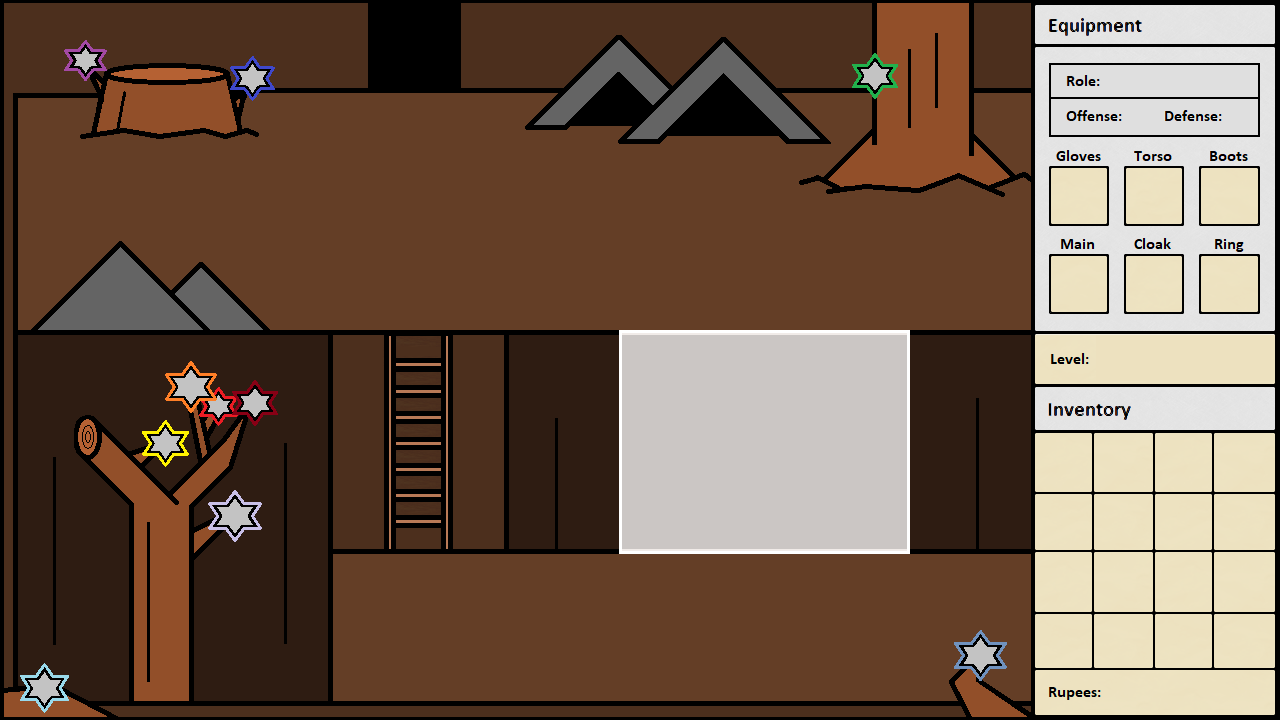
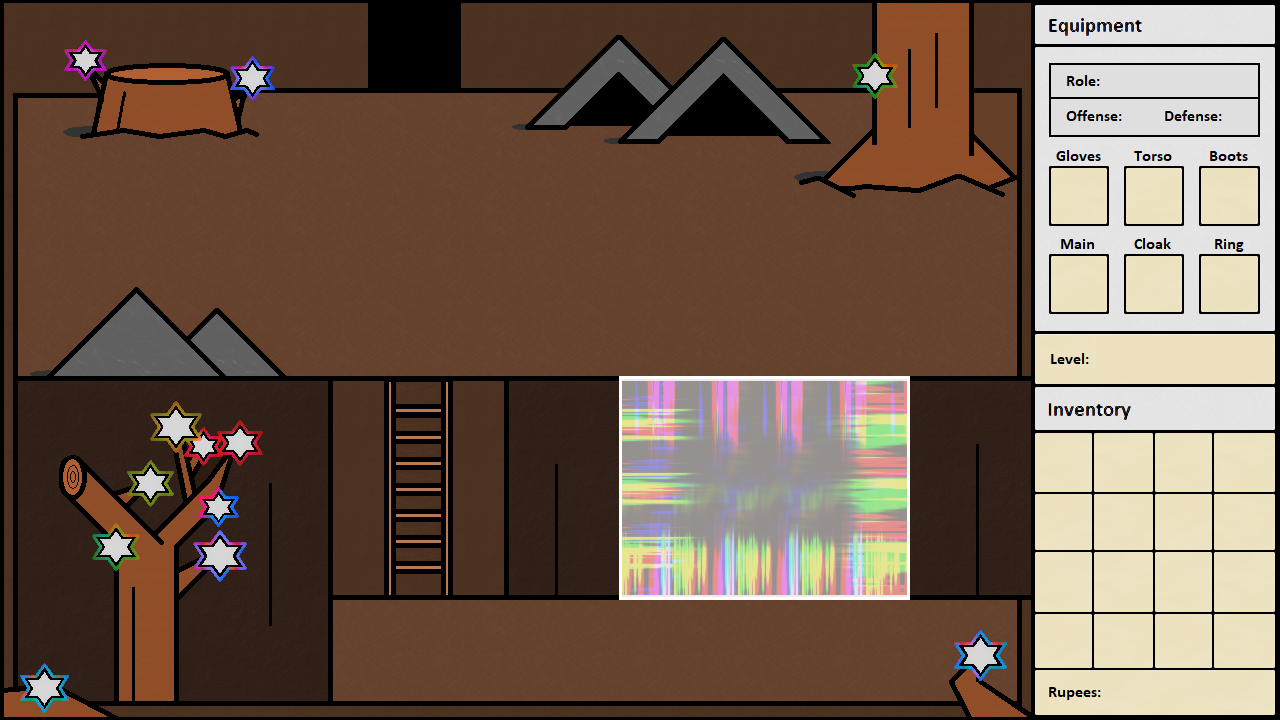
Updating updates.

diff --git a/project_eterna.py b/project_eterna.py
@@ -535,6 +535,38 @@ class PlayerAmuna(pygame.sprite.Sprite):
                 self.y_coordinate = 330
             elif self.y_coordinate >= 545:
                 self.y_coordinate = 545
+        if current_zone == "ectrenos alcove":
+            if self.x_coordinate > SCREEN_WIDTH - 275:
+                self.x_coordinate = SCREEN_WIDTH - 275
+            if self.x_coordinate < 40:
+                self.x_coordinate = 40
+            if self.y_coordinate <= 110:
+                self.y_coordinate = 110
+            elif self.y_coordinate >= SCREEN_HEIGHT - 15:
+                self.y_coordinate = SCREEN_HEIGHT - 15
+            if self.y_coordinate > 525 and self.x_coordinate < 620 or \
+                    self.y_coordinate > 525 and self.x_coordinate > 920:
+                if self.y_coordinate < 615:
+                    self.y_coordinate = 615
+                if self.x_coordinate < 350:
+                    self.x_coordinate = 350
+            if 385 < self.y_coordinate < 615:
+                if self.x_coordinate < 640:
+                    self.x_coordinate = 640
+                if self.x_coordinate > 900:
+                    self.x_coordinate = 900
+            if self.y_coordinate < 525 and self.x_coordinate < 620 or \
+                    self.y_coordinate < 525 and self.x_coordinate > 920:
+                if self.y_coordinate > 380:
+                    self.y_coordinate = 380
+            if self.x_coordinate > 490 and self.y_coordinate < 160:
+                self.y_coordinate = 160
+            if self.x_coordinate > 790 and self.y_coordinate < 205:
+                self.y_coordinate = 205
+            if self.x_coordinate < 280 and self.y_coordinate < 160:
+                self.y_coordinate = 160
+            if self.x_coordinate < 280 and self.y_coordinate > 290:
+                self.y_coordinate = 290
 
         if current_zone == "nascent":
             collided = pygame.sprite.spritecollideany(player, other_rocks, pygame.sprite.collide_rect_ratio(0.50))
@@ -699,13 +731,13 @@ class PlayerAmuna(pygame.sprite.Sprite):
                     self.y_coordinate -= velocity
                 if player.y_coordinate > collided.y_coordinate:
                     self.y_coordinate += velocity
-        if current_zone == "ectrenos left":
+        if current_zone == "ectrenos alcove":
             if player.equipment["boots"] != "chroma boots":
                 if pygame.sprite.collide_rect(player, chroma_bridge):
-                    if player.x_coordinate < chroma_bridge.x_coordinate:
-                        self.x_coordinate -= velocity
-                    if player.x_coordinate > chroma_bridge.x_coordinate:
-                        self.x_coordinate += velocity
+                    if player.y_coordinate < chroma_bridge.y_coordinate:
+                        self.y_coordinate -= velocity
+                    if player.y_coordinate < 616:
+                        self.y_coordinate += velocity
 
         self.rect.midbottom = (self.x_coordinate, self.y_coordinate)
 
@@ -1193,6 +1225,38 @@ class PlayerNuldar(pygame.sprite.Sprite):
                 self.y_coordinate = 330
             elif self.y_coordinate >= 545:
                 self.y_coordinate = 545
+        if current_zone == "ectrenos alcove":
+            if self.x_coordinate > SCREEN_WIDTH - 275:
+                self.x_coordinate = SCREEN_WIDTH - 275
+            if self.x_coordinate < 40:
+                self.x_coordinate = 40
+            if self.y_coordinate <= 110:
+                self.y_coordinate = 110
+            elif self.y_coordinate >= SCREEN_HEIGHT - 15:
+                self.y_coordinate = SCREEN_HEIGHT - 15
+            if self.y_coordinate > 525 and self.x_coordinate < 620 or \
+                    self.y_coordinate > 525 and self.x_coordinate > 920:
+                if self.y_coordinate < 615:
+                    self.y_coordinate = 615
+                if self.x_coordinate < 350:
+                    self.x_coordinate = 350
+            if 385 < self.y_coordinate < 615:
+                if self.x_coordinate < 640:
+                    self.x_coordinate = 640
+                if self.x_coordinate > 900:
+                    self.x_coordinate = 900
+            if self.y_coordinate < 525 and self.x_coordinate < 620 or \
+                    self.y_coordinate < 525 and self.x_coordinate > 920:
+                if self.y_coordinate > 380:
+                    self.y_coordinate = 380
+            if self.x_coordinate > 490 and self.y_coordinate < 160:
+                self.y_coordinate = 160
+            if self.x_coordinate > 790 and self.y_coordinate < 205:
+                self.y_coordinate = 205
+            if self.x_coordinate < 280 and self.y_coordinate < 160:
+                self.y_coordinate = 160
+            if self.x_coordinate < 280 and self.y_coordinate > 290:
+                self.y_coordinate = 290
 
         if current_zone == "nascent":
             collided = pygame.sprite.spritecollideany(player, other_rocks, pygame.sprite.collide_rect_ratio(0.50))
@@ -1364,6 +1428,13 @@ class PlayerNuldar(pygame.sprite.Sprite):
                         self.x_coordinate -= velocity
                     if player.x_coordinate > chroma_bridge.x_coordinate:
                         self.x_coordinate += velocity
+        if current_zone == "ectrenos alcove":
+            if player.equipment["boots"] != "chroma boots":
+                if pygame.sprite.collide_rect(player, chroma_bridge):
+                    if player.y_coordinate < chroma_bridge.y_coordinate:
+                        self.y_coordinate -= velocity
+                    if player.y_coordinate < 616:
+                        self.y_coordinate += velocity
 
         self.rect.midbottom = (self.x_coordinate, self.y_coordinate)
 
@@ -1850,6 +1921,38 @@ class PlayerSorae(pygame.sprite.Sprite):
                 self.y_coordinate = 330
             elif self.y_coordinate >= 545:
                 self.y_coordinate = 545
+        if current_zone == "ectrenos alcove":
+            if self.x_coordinate > SCREEN_WIDTH - 275:
+                self.x_coordinate = SCREEN_WIDTH - 275
+            if self.x_coordinate < 40:
+                self.x_coordinate = 40
+            if self.y_coordinate <= 110:
+                self.y_coordinate = 110
+            elif self.y_coordinate >= SCREEN_HEIGHT - 15:
+                self.y_coordinate = SCREEN_HEIGHT - 15
+            if self.y_coordinate > 525 and self.x_coordinate < 620 or \
+                    self.y_coordinate > 525 and self.x_coordinate > 920:
+                if self.y_coordinate < 615:
+                    self.y_coordinate = 615
+                if self.x_coordinate < 350:
+                    self.x_coordinate = 350
+            if 385 < self.y_coordinate < 615:
+                if self.x_coordinate < 640:
+                    self.x_coordinate = 640
+                if self.x_coordinate > 900:
+                    self.x_coordinate = 900
+            if self.y_coordinate < 525 and self.x_coordinate < 620 or \
+                    self.y_coordinate < 525 and self.x_coordinate > 920:
+                if self.y_coordinate > 380:
+                    self.y_coordinate = 380
+            if self.x_coordinate > 490 and self.y_coordinate < 160:
+                self.y_coordinate = 160
+            if self.x_coordinate > 790 and self.y_coordinate < 205:
+                self.y_coordinate = 205
+            if self.x_coordinate < 280 and self.y_coordinate < 160:
+                self.y_coordinate = 160
+            if self.x_coordinate < 280 and self.y_coordinate > 290:
+                self.y_coordinate = 290
 
         if current_zone == "nascent":
             collided = pygame.sprite.spritecollideany(player, other_rocks, pygame.sprite.collide_rect_ratio(0.50))
@@ -2021,6 +2124,13 @@ class PlayerSorae(pygame.sprite.Sprite):
                         self.x_coordinate -= velocity
                     if player.x_coordinate > chroma_bridge.x_coordinate:
                         self.x_coordinate += velocity
+        if current_zone == "ectrenos alcove":
+            if player.equipment["boots"] != "chroma boots":
+                if pygame.sprite.collide_rect(player, chroma_bridge):
+                    if player.y_coordinate < chroma_bridge.y_coordinate:
+                        self.y_coordinate -= velocity
+                    if player.y_coordinate < 616:
+                        self.y_coordinate += velocity
 
         self.rect.midbottom = (self.x_coordinate, self.y_coordinate)
 
@@ -2863,6 +2973,7 @@ if __name__ == '__main__':
     eldream_gate_rect = pygame.Rect((715, 0), (100, 200))
     ectrenos_entrance_rect = pygame.Rect((520, 520), (100, 50))
     ectrenos_ladder_rect = pygame.Rect((500, 520), (100, 50))
+    alcove_ladder_rect = pygame.Rect((400, 550), (100, 50))
     ectrenos_inn_entrance = pygame.Rect((825, 275), (100, 100))
     ectrenos_shop_entrance = pygame.Rect((215, 175), (100, 100))
     ectrenos_pet_entrance = pygame.Rect((775, 175), (100, 100))
@@ -2942,6 +3053,7 @@ if __name__ == '__main__':
     interactables_reservoir_b = pygame.sprite.Group()
     interactables_reservoir_c = pygame.sprite.Group()
     interactables_ectrenos = pygame.sprite.Group()
+    interactables_ectrenos_alcove = pygame.sprite.Group()
 
     snakes.add(snake_1, snake_2, snake_3, snake_4)
     ghouls.add(ghoul_low_1, ghoul_low_2, ghoul_low_3, ghoul_low_4)
@@ -3625,6 +3737,11 @@ if __name__ == '__main__':
                         player.x_coordinate = 210
                         player.y_coordinate = 515
                         player.rect = player.surf.get_rect(midbottom=(player.x_coordinate, player.y_coordinate))
+                    if player.current_zone == "ectrenos alcove":
+                        player.x_coordinate = 425
+                        player.y_coordinate = 675
+                        player.rect = player.surf.get_rect(midbottom=(player.x_coordinate, player.y_coordinate))
+                        chroma_bridge.update(764, 487, graphic_dict["chroma_bridge"])
 
                 except TypeError:
                     pass
@@ -3636,7 +3753,7 @@ if __name__ == '__main__':
         if start_chosen:
             if player.alive_status:
 
-                # print(player.x_coordinate, player.y_coordinate)
+                print(player.x_coordinate, player.y_coordinate)
                 # print(player.current_zone)
 
                 # keep player pet with player as they move
@@ -3834,6 +3951,9 @@ if __name__ == '__main__':
                                         interacted = True
                                 if player.current_zone == "ectrenos left":
                                     if pygame.Rect.colliderect(player.rect, ectrenos_pet_entrance):
+                                        interacted = True
+                                if player.current_zone == "ectrenos alcove":
+                                    if pygame.Rect.colliderect(player.rect, alcove_ladder_rect):
                                         interacted = True
                         elif event.type == QUIT:
                             pygame.mixer.quit()
@@ -4479,7 +4599,8 @@ if __name__ == '__main__':
                                                                          Enemy, Item, UiElement, seldon_flowers,
                                                                          interactables_eldream, ectrenos_entrance_rect,
                                                                          overlay_ectrene, ectrenos_ladder_rect,
-                                                                         quest_star_leyre, pet_energy_window)
+                                                                         quest_star_leyre, pet_energy_window,
+                                                                         chroma_bridge)
 
                     over_world_song_set = ectrenos_main_returned["over_world_song_set"]
                     eldream_attuned = ectrenos_main_returned["eldream_attuned"]
@@ -4785,7 +4906,7 @@ if __name__ == '__main__':
 
                     ectrenos_alcove_returned = zone_ectrenos.ectrenos_alcove(pygame, screen, graphic_dict, player,
                                                                              ectrenos_alcove_bg,
-                                                                             eldream_overworld_music,
+                                                                             eldream_building_music,
                                                                              over_world_song_set, interaction_popup,
                                                                              font, save_check_window, user_interface,
                                                                              bar_backdrop, hp_bar, en_bar, xp_bar,
@@ -4822,7 +4943,8 @@ if __name__ == '__main__':
                                                                              Enemy, Item, UiElement, seldon_flowers,
                                                                              interactables_eldream,
                                                                              ectrenos_entrance_rect, overlay_ectrene,
-                                                                             pet_energy_window)
+                                                                             pet_energy_window, alcove_ladder_rect,
+                                                                             chroma_bridge)
 
                     over_world_song_set = ectrenos_alcove_returned["over_world_song_set"]
                     eldream_attuned = ectrenos_alcove_returned["eldream_attuned"]

diff --git a/zone_ectrenos.py b/zone_ectrenos.py
@@ -20,7 +20,7 @@ def ectrenos_main(pygame, screen, graphic_dict, player, ectrenos_bg, eldream_bui
                   current_building_entering, enemy_tic, eldream_flowers, seldon_enemies, korlok_enemies, snakes, ghouls,
                   magmons, bandiles, interactables_seldon, interactables_korlok, interactables_mines, Enemy, Item,
                   UiElement, seldon_flowers, interactables_ectrenos, ectrenos_entrance, ectrene, ladder,
-                  quest_star_leyre, pet_energy_window):
+                  quest_star_leyre, pet_energy_window, chroma_bridge):
 
     if not over_world_song_set:
         pygame.mixer.music.fadeout(50)
@@ -71,9 +71,9 @@ def ectrenos_main(pygame, screen, graphic_dict, player, ectrenos_bg, eldream_bui
 
         if interacted and in_over_world:
             interacted = False
-            over_world_song_set = False
+            chroma_bridge.update(764, 487, graphic_dict["chroma_bridge"])
             player.current_zone = "ectrenos alcove"
-            player.x_coordinate = 500
+            player.x_coordinate = 425
             player.y_coordinate = 675
             player.rect = player.surf.get_rect(midbottom=(player.x_coordinate, player.y_coordinate))
 
@@ -511,7 +511,7 @@ def ectrenos_front(pygame, screen, graphic_dict, player, ectrenos_front_bg, eldr
     return ectrenos_front_return
 
 
-def ectrenos_alcove(pygame, screen, graphic_dict, player, ectrenos_alcove_bg, eldream_overworld_music,
+def ectrenos_alcove(pygame, screen, graphic_dict, player, ectrenos_alcove_bg, eldream_building_music,
                     over_world_song_set,
                     interaction_popup, font, save_check_window, user_interface, bar_backdrop, hp_bar, en_bar, xp_bar,
                     button_highlighted, button_highlight, in_over_world, interacted, info_text_1, info_text_2,
@@ -529,11 +529,11 @@ def ectrenos_alcove(pygame, screen, graphic_dict, player, ectrenos_alcove_bg, el
                     ghouls,
                     magmons, bandiles, interactables_seldon, interactables_korlok, interactables_mines, Enemy, Item,
                     UiElement, seldon_flowers, interactables_ectrenos, ectrenos_entrance, ectrene,
-                    pet_energy_window):
+                    pet_energy_window, ladder, chroma_bridge):
 
     if not over_world_song_set:
         pygame.mixer.music.fadeout(50)
-        pygame.mixer.music.load(eldream_overworld_music)
+        pygame.mixer.music.load(eldream_building_music)
         pygame.mixer.music.play(loops=-1)
         over_world_song_set = True
 
@@ -560,6 +560,27 @@ def ectrenos_alcove(pygame, screen, graphic_dict, player, ectrenos_alcove_bg, el
                 screen.blit(pet_energy_surf, pet_energy_rect)
     except AttributeError:
         pass
+
+    if pygame.Rect.colliderect(player.rect, ladder):
+        interaction_popup.update(420, 525, graphic_dict["popup_interaction"])
+        screen.blit(interaction_popup.surf, interaction_popup.rect)
+        interaction_info_surf = font.render(str("Ectrenos"), True, "black", "light yellow")
+        interaction_info_rect = interaction_info_surf.get_rect()
+        interaction_info_rect.center = (420, 525)
+        screen.blit(interaction_info_surf, interaction_info_rect)
+
+        info_text_1 = "Press 'F' key to climb up ladder."
+        info_text_2 = ""
+        info_text_3 = ""
+        info_text_4 = ""
+
+        if interacted and in_over_world:
+            interacted = False
+            chroma_bridge.update(477, 493, graphic_dict["chroma_bridge"])
+            player.current_zone = "ectrenos"
+            player.x_coordinate = 525
+            player.y_coordinate = 648
+            player.rect = player.surf.get_rect(midbottom=(player.x_coordinate, player.y_coordinate))
 
     # --------------------------------------------------------------------------------------------------
     for save_window in save_check_window:
